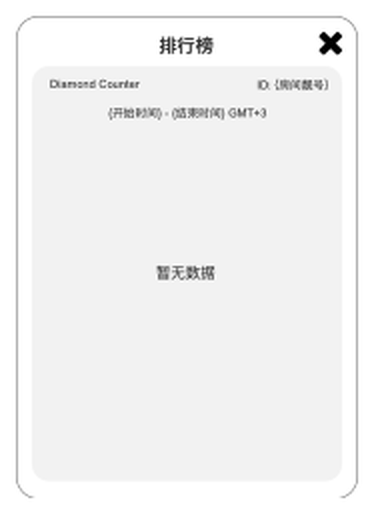
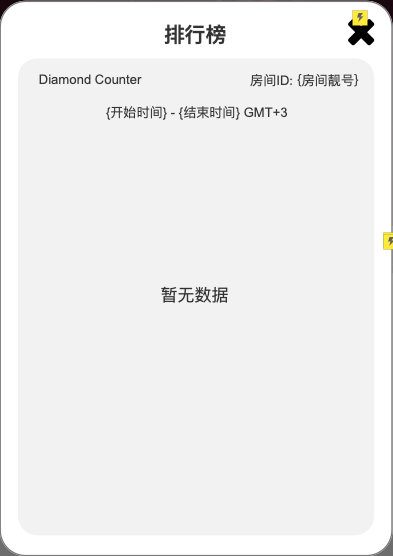
去掉计数器多余原型图文件，更新计数器榜单空态图

Changed region(s): [[0.0, 0.0, 1.0, 1.0], [0.4118, 0.4981, 0.5882, 0.5603]]

diff --git a/钻石计数器/钻石计数器-PRD.md b/钻石计数器/钻石计数器-PRD.md
@@ -458,7 +458,7 @@ flowchart TD
 
 ### 10.3 空态
 
-![榜单空态](assets/axure-钻石计数器-节点级-20261113/11-榜单空态组件.png)
+<img src="assets/axure-钻石计数器-节点级-20261113/11-榜单空态组件.png" alt="榜单空态" style="zoom:67%;" />
 
 无运行任务且无最近结果、运行中暂无参榜用户、Clear后暂无新有效收礼、最近一次结果为空，均展示`暂无数据`；空榜单不展示导出按钮。
 
